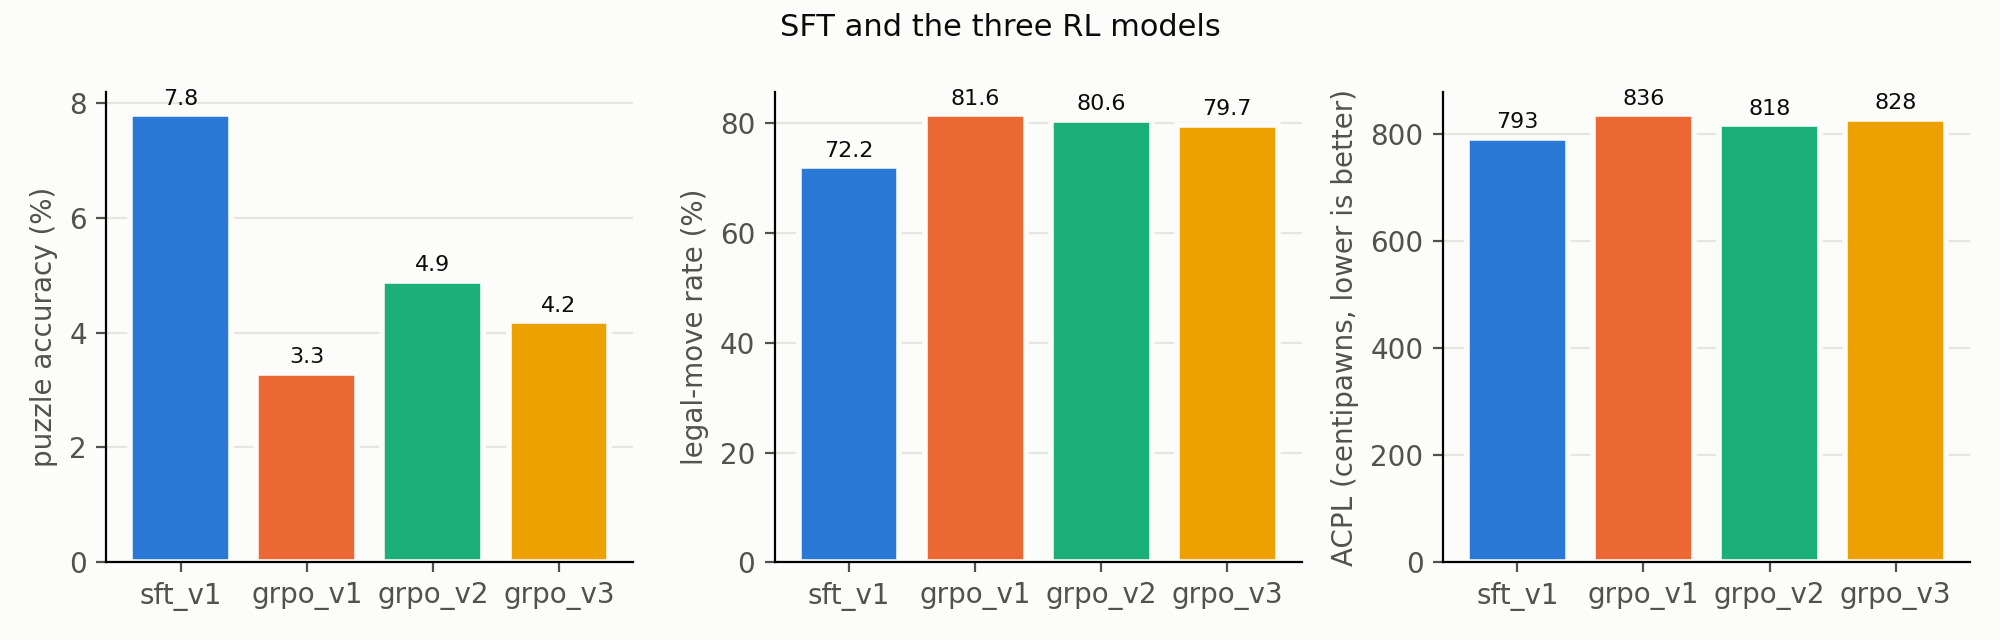
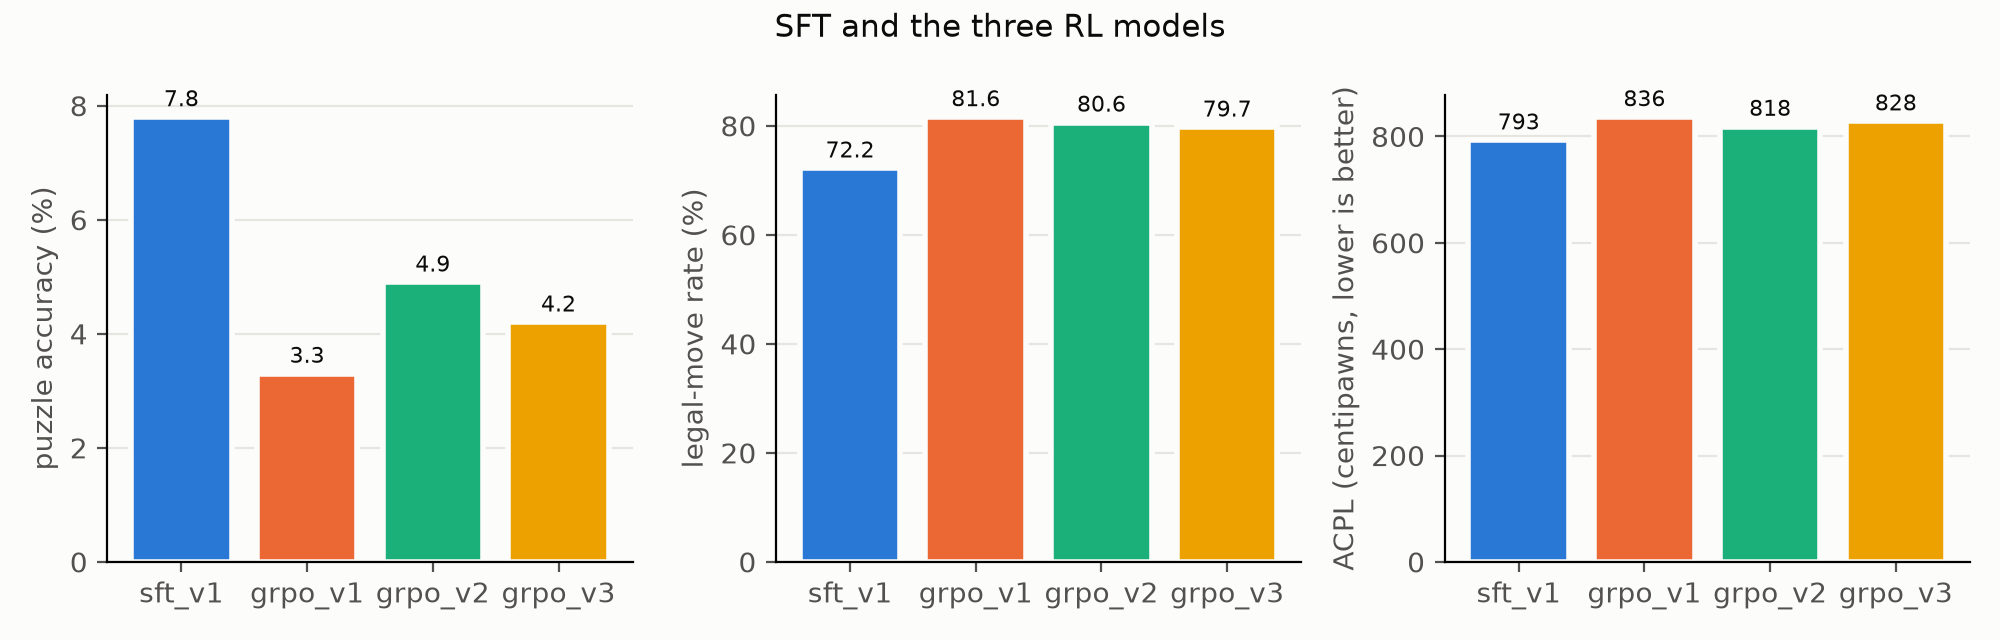
Figures: write x-axis labels vertically where they would overlap; redraw the affected 08-11 figures

diff --git a/src/chesslm/plots.py b/src/chesslm/plots.py
@@ -20,11 +20,32 @@ def _style(ax, ylabel):
     ax.tick_params(colors=MUTED)
 
 
+def _turn_crowded_labels(fig, gap=4):
+    """Write the x-axis labels vertically on every panel where they would otherwise overlap (e.g. many model names).
+
+    Returns True if any panel was changed. gap: the smallest space (in pixels) allowed between two labels.
+    """
+    fig.canvas.draw()  # places the labels, so their sizes can be measured
+    renderer = fig.canvas.get_renderer()
+    turned = False
+    for ax in fig.axes:
+        if not ax.get_visible():
+            continue
+        boxes = sorted((label.get_window_extent(renderer) for label in ax.get_xticklabels() if label.get_text()),
+                       key=lambda box: box.x0)
+        if any(left.x1 + gap > right.x0 for left, right in zip(boxes, boxes[1:])):
+            ax.tick_params(axis="x", labelrotation=90)
+            turned = True
+    return turned
+
+
 def _finish(fig, path, title):
     """Add an optional title above the whole figure, then save it. Titles help readers who see a figure on its own."""
     if title:
         fig.suptitle(title, color=TEXT, fontsize=11)
     fig.tight_layout()
+    if _turn_crowded_labels(fig):
+        fig.tight_layout()  # make room for the vertical labels
     fig.savefig(path, dpi=200)
     return fig
 
@@ -59,8 +80,6 @@ def compare_metrics(summary, runs, path, title=None):
         _label_bars(ax, bars, fmt)
         _style(ax, label)
         ax.set_ylim(bottom=0)  # bars always start at zero
-        if max(map(len, runs)) > 8:  # long run names (e.g. sft_stockfish) would overlap
-            ax.tick_params(axis="x", labelrotation=30)
     return _finish(fig, path, title)
 
 
@@ -252,7 +271,6 @@ def metric_panels(table, panels, path, title=None):
         _label_bars(ax, bars, fmt)
         _style(ax, label)
         ax.set_ylim(bottom=0)
-        ax.tick_params(axis="x", labelrotation=30)
     return _finish(fig, path, title)
 
 

diff --git a/tests/test_plots.py b/tests/test_plots.py
@@ -1,0 +1,24 @@
+import matplotlib
+
+matplotlib.use("Agg")
+
+import pandas as pd
+
+from chesslm import plots
+
+
+def _label_rotations(fig):
+    return {label.get_rotation() for ax in fig.axes if ax.get_visible() for label in ax.get_xticklabels()}
+
+
+def test_crowded_model_names_are_written_vertically(tmp_path):
+    names = [f"a_long_model_name_{i}" for i in range(10)]
+    table = pd.DataFrame({"Legal (%)": range(10)}, index=names)
+    fig = plots.metric_panels(table, [("Legal (%)", "legal (%)", "{:.0f}")], tmp_path / "crowded.png")
+    assert _label_rotations(fig) == {90.0}
+
+
+def test_few_short_names_stay_horizontal(tmp_path):
+    table = pd.DataFrame({"Legal (%)": [40, 70]}, index=["base", "sft_v1"])
+    fig = plots.metric_panels(table, [("Legal (%)", "legal (%)", "{:.0f}")], tmp_path / "roomy.png")
+    assert _label_rotations(fig) == {0.0}

diff --git a/docs/project_notes.md b/docs/project_notes.md
@@ -383,7 +383,7 @@ These are the two evaluations our progress report committed to. They run on ever
 
 ![Legal-move rate, ACPL, blunder rate and Stockfish-match rate of every model on 1,000 held-out game positions](../results/figures/game_evals/game_positions.png)
 
-*`results/figures/game_evals/game_positions.png`.* One bar per model, with a random legal move as the last bar. Left to right: legal answers (higher is better), ACPL of the legal answers (lower is better), blunders as a share of all answers (an illegal answer is not counted as a blunder, so a model with many illegal answers has fewer blunders here; the table above gives the blunder rate among legal answers), and how often the answer is Stockfish's move. The RL models (`grpo_*`) have the most legal answers and the lowest ACPL, but the lowest Stockfish match. In this version the model names on the x-axis overlap; the figure is redrawn with a clearer layout when notebook 11 is rerun for the new models.
+*`results/figures/game_evals/game_positions.png`.* One bar per model, with a random legal move as the last bar. Top row: legal answers (higher is better) and ACPL of the legal answers (lower is better). Bottom row: blunders as a share of all answers (an illegal answer is not counted as a blunder, so a model with many illegal answers has fewer blunders here; the table above gives the blunder rate among legal answers), and how often the answer is Stockfish's move. The RL models (`grpo_*`) have the most legal answers and the lowest ACPL, but the lowest Stockfish match.
 
 ![Wins, draws and losses of every model in 50 games against Stockfish at depth 1](../results/figures/game_evals/games_vs_stockfish.png)
 
